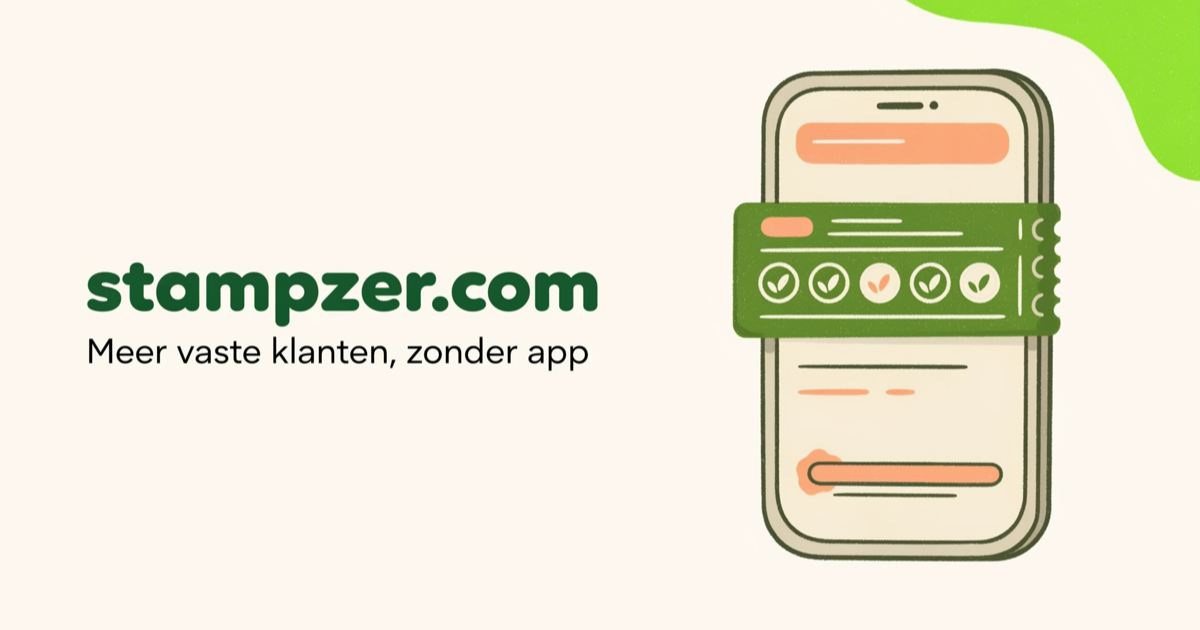
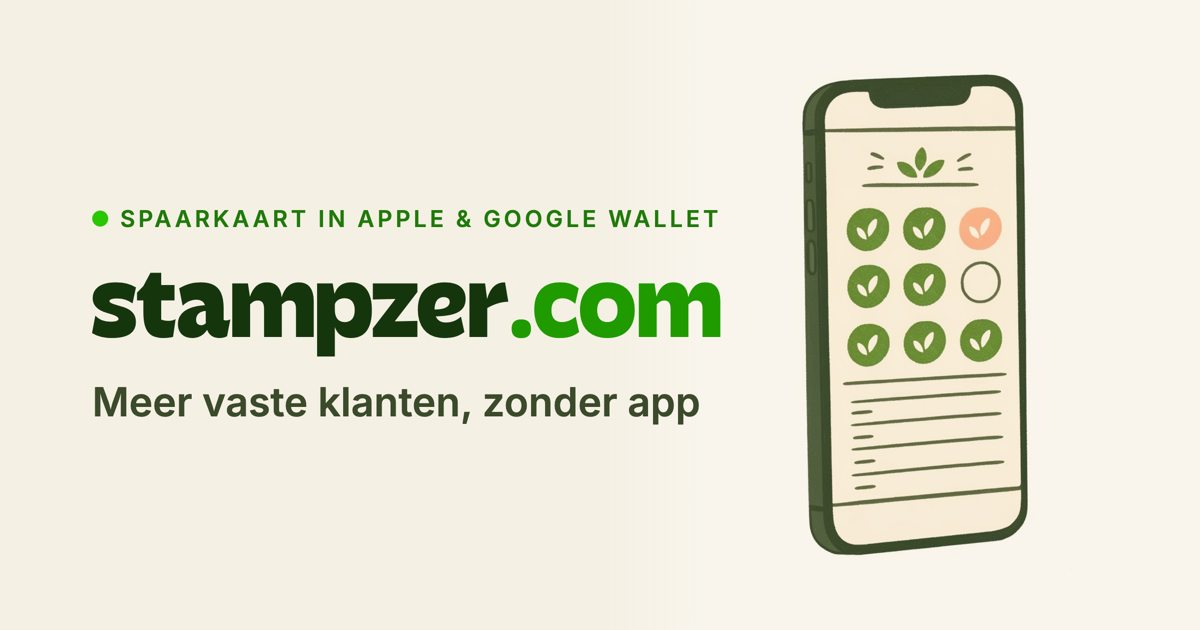
og-image: wordmark in real Seatren font (headless-Chrome render)
Rebuilt the share image so 'stampzer.com' uses the actual Seatren brand
font instead of an AI approximation: Krea-generated text-free phone
illustration + wordmark/eyebrow/tagline composited in the real Seatren +
Inter woff2, rendered at 2x via headless Chrome and downscaled to 1200x630.
og:image/twitter:image bumped to ?v=3 to force a fresh scrape.

Changed region(s): [[0.0617, 0.0905, 0.8942, 0.9048], [0.74, 0.0, 1.0, 0.3016]]

diff --git a/index.html b/index.html
@@ -13,14 +13,14 @@
 <meta property="og:site_name" content="Stampzer" />
 <meta property="og:title" content="Stampzer — meer vaste klanten, zonder app" />
 <meta property="og:description" content="De spaarkaart van jouw zaak, direct in Apple &amp; Google Wallet. Klanten raken hem nooit meer kwijt en komen vaker terug. Start gratis." />
-<meta property="og:image" content="https://stampzer.com/assets/og-image.png?v=2" />
+<meta property="og:image" content="https://stampzer.com/assets/og-image.png?v=3" />
 <meta property="og:image:width" content="1200" />
 <meta property="og:image:height" content="630" />
 <meta property="og:locale" content="nl_NL" />
 <meta name="twitter:card" content="summary_large_image" />
 <meta name="twitter:title" content="Stampzer — meer vaste klanten, zonder app" />
 <meta name="twitter:description" content="De spaarkaart van jouw zaak in Apple &amp; Google Wallet. Meer terugkerende klanten, zonder app." />
-<meta name="twitter:image" content="https://stampzer.com/assets/og-image.png?v=2" />
+<meta name="twitter:image" content="https://stampzer.com/assets/og-image.png?v=3" />
 <link rel="icon" type="image/png" href="https://stampzer.com/assets/favicon-64.png" />
 <script src="/home.js" defer></script>
 <style>
@@ -344,7 +344,7 @@
       "url": "https://stampzer.com/",
       "sameAs": ["https://www.linkedin.com/company/stampzer/"],
       "logo": "https://stampzer.com/assets/favicon-256.png",
-      "image": "https://stampzer.com/assets/og-image.png?v=2",
+      "image": "https://stampzer.com/assets/og-image.png?v=3",
       "email": "hello@stampzer.com",
       "description": "Digitale klantenkaarten voor lokale ondernemers, direct in Apple Wallet en Google Wallet.",
       "foundingLocation": { "@type": "Country", "name": "Nederland" },
